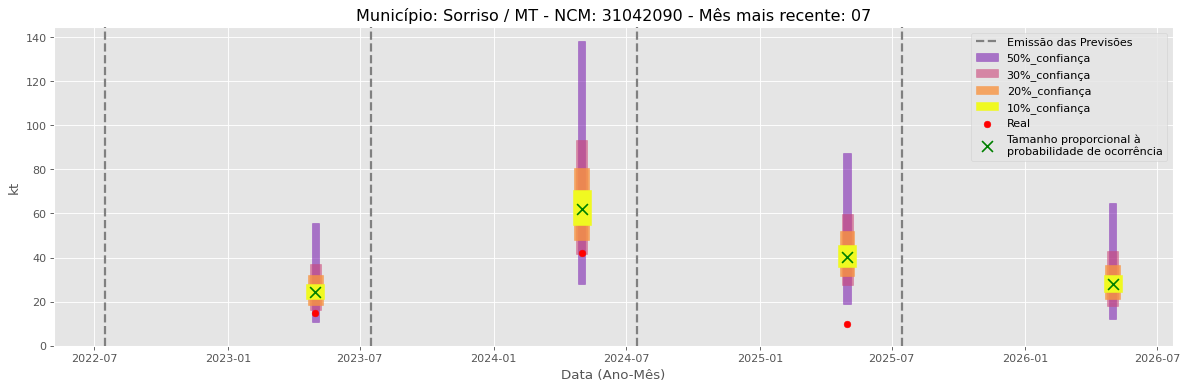
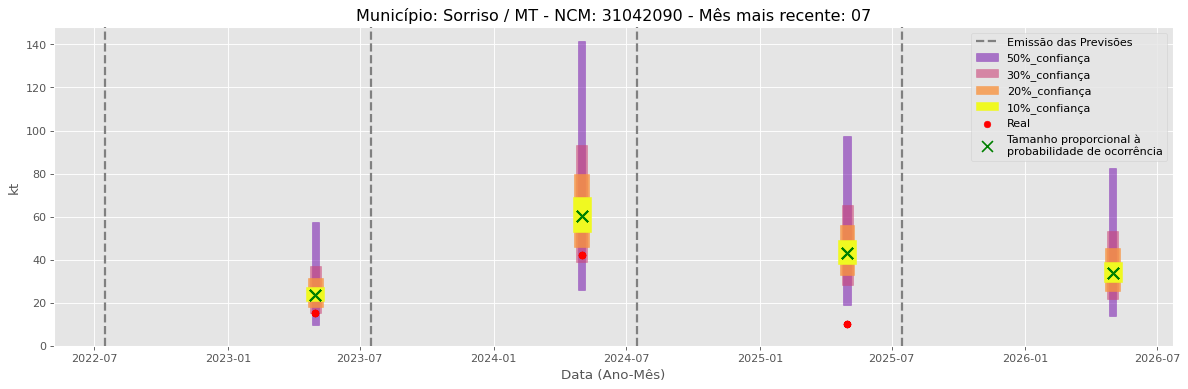
Atualização automática em lote

diff --git a/README.md b/README.md
@@ -15,6 +15,48 @@
 **[Home](https://quantimportbrazil.github.io/Sobre/)** | **[Selecionar Estado (UF)](https://quantimportbrazil.github.io/Unidades_Federativas/)**
 
 
+![Gráfico de Previsão](31021010.png)
+Fator de Influência em Destaque:
+Previsões emitidas no mês 8.
+Previsão Influenciada:
+- Município: Sorriso
+- Produto (NCM): Ureia, mesmo em solução aquosa, com teor de nitrogênio (azoto) superior a 45 %, em peso, calculado sobre o produto anidro no estado seco-31021010 
+- Mês previsto: 11
+
+
+Fator Influenciador: Quantidade em Comex
+- Unidade Federativa: MS
+- Grupo de Produto (SH2): Sementes e frutos oleaginosos; grãos, sementes e frutos diversos; plantas industriais ou medicinais; palhas e forragens-12 
+- Mês: 3
+- Unidade: kt_mun
+
+
+
+
+
+
+
+![Gráfico de Previsão](31022100.png)
+Fator de Influência em Destaque:
+Previsões emitidas no mês 8.
+Previsão Influenciada:
+- Município: Sorriso
+- Produto (NCM): Sulfato de amônio-31022100 
+- Mês previsto: 11
+
+
+Fator Influenciador: Quantidade em Comex
+- Unidade Federativa: MS
+- Grupo de Produto (SH2): Sementes e frutos oleaginosos; grãos, sementes e frutos diversos; plantas industriais ou medicinais; palhas e forragens-12 
+- Mês: 3
+- Unidade: kt_mun
+
+
+
+
+
+
+
 ![Gráfico de Previsão](31042090.png)
 Fator de Influência em Destaque:
 Previsões emitidas no mês 8.
@@ -24,9 +66,9 @@ Previsão Influenciada:
 - Mês previsto: 05
 
 
-Fator Influenciador: Comex
-- Unidade Federativa: PR
-- Grupo de Produto (SH2): Adubos (fertilizantes)-31 
+Fator Influenciador: Quantidade em Comex
+- Unidade Federativa: MG
+- Grupo de Produto (SH2): Resíduos e desperdícios das indústrias alimentares; alimentos preparados para animais-23 
 - Mês: 3
 - Unidade: sm
 
